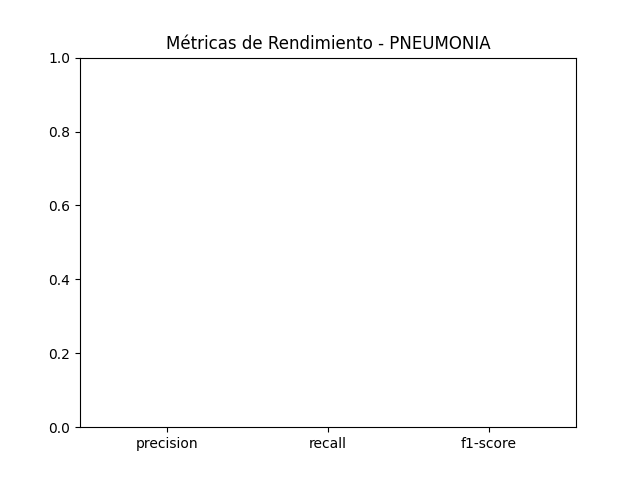
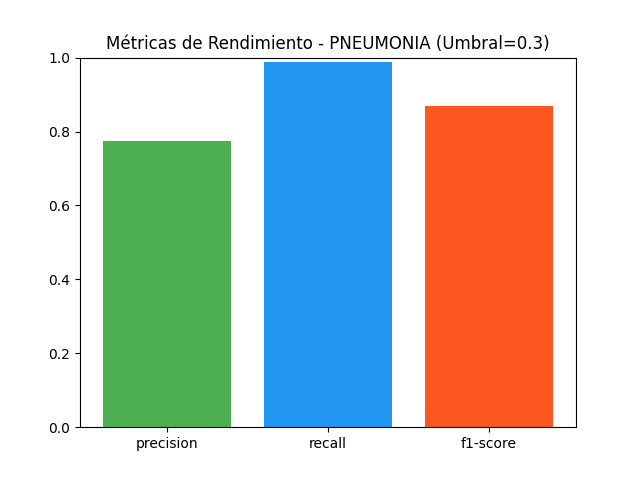
Presicion del 99% en pacientes con PNEUMONIA

diff --git a/scripts/evaluate_model_test.py b/scripts/evaluate_model_test.py
@@ -70,16 +70,36 @@ plt.title("Matriz de Confusión")
 plt.savefig(os.path.join(RESULTS_DIR, "confusion_matrix_test.png"))
 plt.close()
 
+# # ==============================
+# # 7. Guardar gráficas de métricas
+# # ==============================
+# metrics_names = ["precision", "recall", "f1-score"]
+# metrics_values = [report["PNEUMONIA"][m] for m in metrics_names]  # Cambiar nombre de clase si es distinto
+
+# plt.bar(metrics_names, metrics_values, color=["#4CAF50", "#2196F3", "#FF5722"])
+# plt.ylim(0, 1)
+# plt.title(f"Métricas de Rendimiento - Neumonía (Umbral={THRESHOLD})")
+# plt.savefig(os.path.join(RESULTS_DIR, "metrics_bar_test.png"))
+# plt.close()
+
 # ==============================
 # 7. Guardar gráficas de métricas
 # ==============================
 metrics_names = ["precision", "recall", "f1-score"]
-metrics_values = [report["PNEUMONIA"][m] for m in metrics_names]  # Cambiar nombre de clase si es distinto
+
+# Usar índice correcto de la clase PNEUMONIA desde class_labels
+if "PNEUMONIA" in class_labels:
+    pneumonia_label = "PNEUMONIA"
+else:
+    pneumonia_label = class_labels[1]  # asume que la segunda clase es PNEUMONIA
+
+metrics_values = [report[pneumonia_label][m] for m in metrics_names]
 
 plt.bar(metrics_names, metrics_values, color=["#4CAF50", "#2196F3", "#FF5722"])
 plt.ylim(0, 1)
-plt.title(f"Métricas de Rendimiento - Neumonía (Umbral={THRESHOLD})")
-plt.savefig(os.path.join(RESULTS_DIR, "metrics_bar_test.png"))
+plt.title(f"Métricas de Rendimiento - {pneumonia_label} (Umbral={THRESHOLD})")
+plt.savefig(os.path.join(RESULTS_DIR, f"metrics_bar_{pneumonia_label}.png"))
 plt.close()
+
 
 print("✅ Evaluación completada con umbral personalizado. Resultados guardados en carpeta 'results/'")
